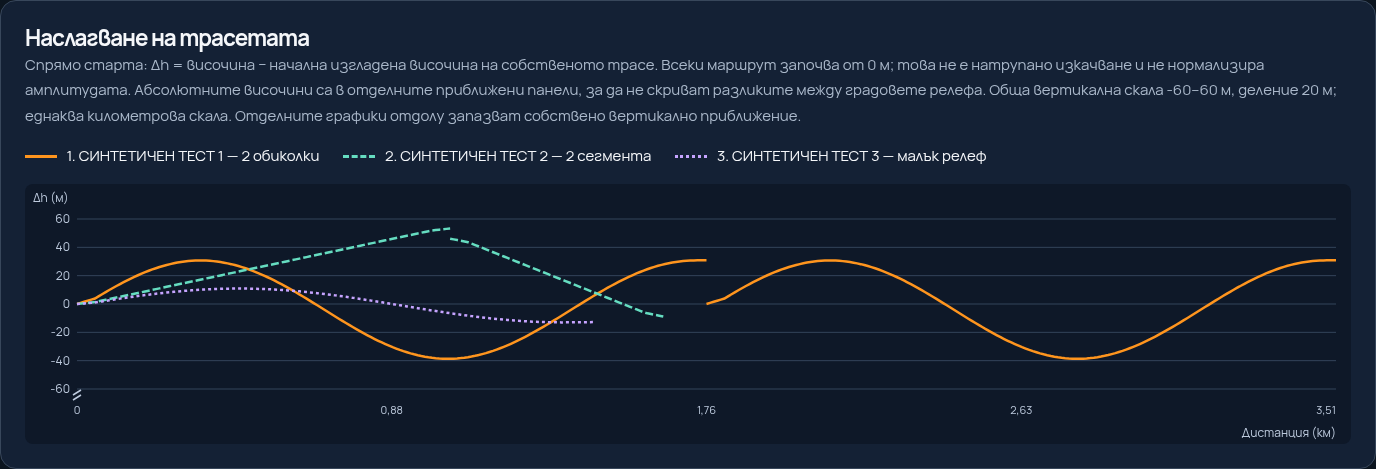
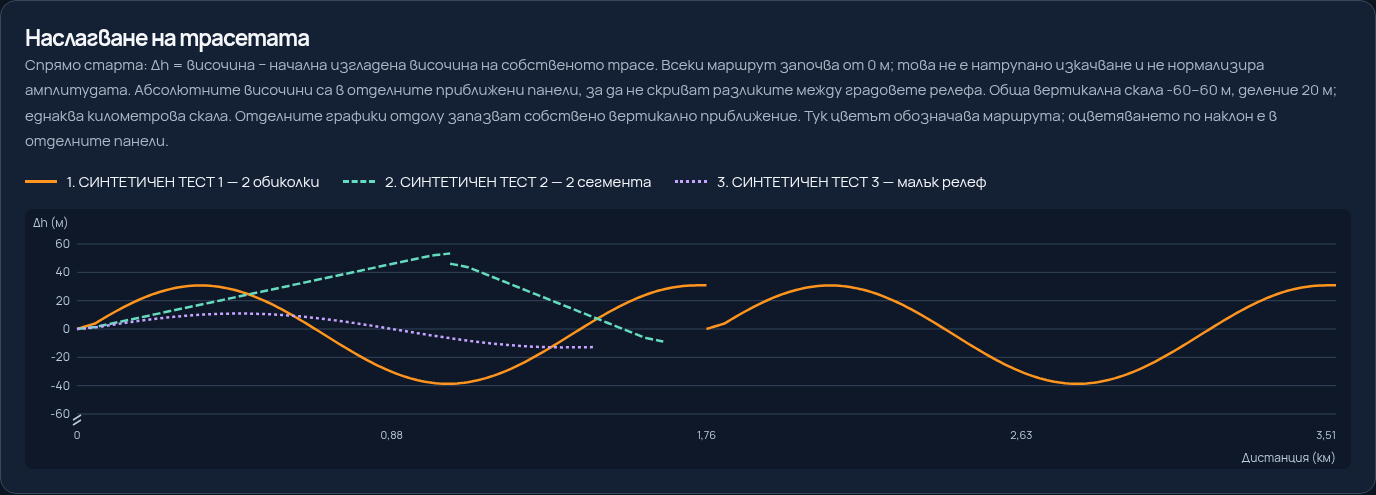
feat: finalize accessible terrain profiles and top climb analysis

diff --git a/src/scripts/route-analysis.ts b/src/scripts/route-analysis.ts
@@ -1,4 +1,5 @@
 import { analyzeRoute, profilePoint, planPace, parseTargetTime, formatDuration, formatPace, PROFILE_MESSAGES } from "../lib/route-analysis.mjs";
+import { TERRAIN, terrainRuns, topClimbs } from "../lib/profile-terrain.mjs";
 import { elevationAxis, comparisonAxis, displayElevation } from "../lib/profile-scales.mjs";
 import { chartAxes, svgNode, PROFILE_COLORS, PROFILE_DASHES } from "./profile-chart";
 import { initRouteMap } from "./route-map";
@@ -33,33 +34,65 @@ document.querySelectorAll<HTMLElement>("[data-route-analysis]").forEach((root) =
   }
   function draw(card: HTMLElement, profile: Profile, maxDistance: number, slot: string) {
     const svg = card.querySelector<SVGSVGElement>("[data-profile-chart]")!;
+    const drawGeneration = generation;
     svg.replaceChildren();
     if (!profile.available) return;
     const axis = elevationAxis(profile.minM!, profile.maxM!);
     const { x, y, width, left, plotWidth } = chartAxes(svg, axis, maxDistance);
     put(card, "[data-axis-notice]", `Абсолютна височина · вертикално приближение ${axis.min}–${axis.max} м · деление ${axis.step} м. ↕ Отделен вертикален мащаб за всяко трасе; стръмността на нарисуваната линия не е сравнима между панелите.`);
-    for (const points of profile.segments) svg.append(svgNode("polyline", { points: points.map((p) => `${x(p.x).toFixed(2)},${y(p.ele).toFixed(2)}`).join(" "), fill: "none", stroke: "#ff951e", "stroke-width": 2.5, "stroke-linejoin": "round", "vector-effect": "non-scaling-stroke" }));
-    for (const hill of profile.hills) {
-      const pts = profile.segments[hill.segment + (hill.lap - 1) * (profile.segments.length / profile.lapCount)].filter((p) => p.x >= hill.startM && p.x <= hill.endM);
-      // Each hill belongs to one segment; do not connect duplicate boundary positions.
-      if (pts.length) svg.append(svgNode("polyline", { points: pts.map((p) => `${x(p.x)},${y(p.ele)}`).join(" "), fill: "none", stroke: hill.type === "up" ? "#ffc06a" : "#65dcc0", "stroke-width": 4, "vector-effect": "non-scaling-stroke" }));
+    for (const points of profile.segments) for (const run of terrainRuns(points)) {
+      const style = TERRAIN[run.kind as keyof typeof TERRAIN];
+      const curve = svgNode("polyline", { points: run.points.map((p: { x: number; ele: number }) => `${x(p.x).toFixed(2)},${y(p.ele).toFixed(2)}`).join(" "), fill: "none", stroke: style.color, "stroke-width": 3.5, "stroke-linejoin": "round", "stroke-dasharray": style.dash, "vector-effect": "non-scaling-stroke", "data-terrain": run.kind });
+      curve.append(svgNode("title", {}, `${style.label}: ${km(run.points[0].x)}–${km(run.points.at(-1)!.x)} км`));
+      svg.append(curve);
     }
     const line = svgNode("line", { x1: left, x2: left, y1: 35, y2: 205, stroke: "#fff", "stroke-dasharray": "4 4" });
     const dot = svgNode("circle", { cx: left, cy: 205, r: 5, fill: "white" }); svg.append(line, dot);
     const slider = card.querySelector<HTMLInputElement>("[data-profile-position]")!;
     slider.max = String(profile.distanceM); slider.step = "any"; slider.value = "0";
-    function choose(distance: number) {
-      const p = profilePoint(profile, distance); if (!p) return;
+    function choose(distance: number, selectedPoint?: ReturnType<typeof profilePoint>) {
+      const p = selectedPoint ?? profilePoint(profile, distance); if (!p) return;
       line.setAttribute("x1", String(x(p.x))); line.setAttribute("x2", String(x(p.x)));
       dot.setAttribute("cx", String(x(p.x))); dot.setAttribute("cy", String(y(p.ele)));
-      put(card, "[data-profile-readout]", `${km(p.x)} км · ${metres(p.ele)} · наклон ${percent(p.grade)} · обиколка ${p.lap}. Точката е отбелязана и на картата, след като я отвориш.`);
+      svg.dataset.selectedDistance = String(p.x);
+      const direction = p.grade === undefined ? "Начало на сегмент" : Math.abs(p.grade) < .0035 ? "→ Слаб наклон" : p.grade > 0 ? "↑ Нагоре" : "↓ Надолу";
+      put(card, "[data-profile-readout]", `${direction} · ${km(p.x)} км · ${metres(p.ele)} · локален наклон след изглаждане ${percent(p.grade)} · обиколка ${p.lap}. Точката е отбелязана и на картата, след като я отвориш.`);
       mapFor(slot)?.selectPoint(p);
     }
     slider.oninput = () => choose(Number(slider.value));
-    svg.onpointerdown = (event) => {
-      const box = svg.getBoundingClientRect(); const distance = Math.max(0, Math.min(profile.distanceM, ((event.clientX - box.left) / box.width * width - left) / plotWidth * maxDistance));
+    let touchPointer: number | undefined, pendingX: number | undefined, scheduled = false;
+    function pointFromClient(clientX: number) {
+      const box = svg.getBoundingClientRect();
+      const distance = Math.max(0, Math.min(profile.distanceM, ((clientX - box.left) / box.width * width - left) / plotWidth * maxDistance));
       slider.value = String(distance); choose(distance);
+    }
+    svg.onpointerdown = (event) => {
+      if (event.pointerType !== "mouse") { touchPointer = event.pointerId; svg.setPointerCapture(event.pointerId); }
+      pointFromClient(event.clientX);
     };
+    svg.onpointermove = (event) => {
+      if (event.pointerType !== "mouse" && touchPointer !== event.pointerId) return;
+      pendingX = event.clientX;
+      if (scheduled) return; scheduled = true;
+      requestAnimationFrame(() => { scheduled = false; if (svg.isConnected && drawGeneration === generation && pendingX !== undefined) pointFromClient(pendingX); });
+    };
+    svg.onpointerup = svg.onpointercancel = () => { touchPointer = undefined; };
+    const annotations: { x: number; y: number }[] = [];
+    for (const climb of topClimbs(profile)) {
+      const segment = profile.segments[climb.segment + (climb.lap - 1) * (profile.segments.length / profile.lapCount)];
+      const peak = segment.find((p) => p.x >= climb.endM - 1e-6); if (!peak) continue;
+      const cx = Math.max(left + 12, Math.min(left + plotWidth - 12, x(peak.x)));
+      const positions = [-15, 20, -40, 45, -65, 70].map((offset) => Math.max(18, Math.min(193, y(peak.ele) + offset)));
+      const cy = positions.find((candidate) => annotations.every((p) => Math.abs(p.x - cx) >= 24 || Math.abs(p.y - candidate) >= 24)) ?? positions[0];
+      annotations.push({ x: cx, y: cy });
+      const label = `Изкачване №${climb.rank}, обиколка ${climb.lap}, ${km(climb.startM)}–${km(climb.endM)} км, +${metres(climb.gainM)}, средно ${percent(climb.averageGrade)}`;
+      const marker = svgNode("g", { "data-climb-marker": climb.rank, tabindex: 0, role: "button", "aria-label": label });
+      marker.append(svgNode("title", {}, label), svgNode("line", { x1: cx, x2: x(peak.x), y1: cy + 9, y2: y(peak.ele), stroke: "white" }), svgNode("circle", { cx, cy, r: 10, fill: "#fff", stroke: "#0e1828", "stroke-width": 1.5 }), svgNode("text", { x: cx, y: cy + 4, fill: "#0e1828", "text-anchor": "middle", "font-size": 12, "font-weight": "bold" }, String(climb.rank)));
+      const activate = () => { slider.value = String(climb.endM); choose(climb.endM, peak); };
+      marker.addEventListener("click", activate);
+      marker.addEventListener("keydown", (event) => { if (event.key === "Enter" || event.key === " ") { event.preventDefault(); activate(); } });
+      svg.append(marker);
+    }
     choose(0);
   }
   function render(card: HTMLElement, route: Summary, profile: Profile, maxDistance: number, slot: string) {
@@ -72,13 +105,18 @@ document.querySelectorAll<HTMLElement>("[data-route-analysis]").forEach((root) =
         noise = ` 25 м е чувствителен към GPS шум; за шосе препоръчваме 100 м. Изкачване при 25 м: ${metres(profile.ascentM)}; при 100 м: ${metres(baseline.ascentM)}. Разликата не доказва допълнителни реални хълмове.`;
       }
     }
-    put(card, "[data-profile-notice]", profile.available ? `Изглаждане ${smoothing.value} м. Оранжево: профил; светлооранжево: изкачване; зелено: спускане.${noise}` : PROFILE_MESSAGES[route.status === "ready" ? "unavailable" : route.status]);
+    put(card, "[data-profile-notice]", profile.available ? `Изглаждане ${smoothing.value} м. Устойчива посока: ↑ оранжево-червено — нагоре; ↓ зелено — надолу; → сиво — равно/слаб наклон. Линиите са също плътни, прекъснати и точкови.${noise}` : PROFILE_MESSAGES[route.status === "ready" ? "unavailable" : route.status]);
     const stats = card.querySelector("[data-profile-stats]")!; stats.replaceChildren();
     const entries = [["Обща дистанция", `${km(profile.distanceM)} км`], ["Обиколки", `${route.lapCount} × ${km(profile.baseDistanceM)} км`], ["Начална височина", metres(profile.startM)], ["Мин. / макс.", `${metres(profile.minM)} / ${metres(profile.maxM)}`], ["Изкачване", metres(profile.ascentM)], ["Спускане", metres(profile.descentM)]];
     for (const [label, value] of entries) { const div = document.createElement("div"), dt = document.createElement("dt"), dd = document.createElement("dd"); dt.textContent = label; dd.textContent = value; div.append(dt, dd); stats.append(div); }
     card.querySelector<HTMLElement>("[data-profile-details]")!.hidden = !profile.available;
     const body = card.querySelector("[data-profile-hills]")!; body.replaceChildren();
+    const topBody = card.querySelector("[data-top-climbs]")!; topBody.replaceChildren();
     if (!profile.available) return;
+    const climbs = topClimbs(profile);
+    put(card, "[data-top-climbs-summary]", `${climbs.length < 3 ? `Намерени са ${climbs.length} изкачвания над прага; не допълваме до три с измислени участъци.` : "Топ 3 по натрупано изкачване."} Долина–връх: поне 200 м, 10 м изкачване и 0,5% среден наклон; допускаме спад до 5 м за до 300 м. При равенство: среден наклон, дължина, по-ранен километър. Обиколките и сегментите остават отделни.`);
+    for (const c of climbs) row(topBody, [`№${c.rank} · обиколка ${c.lap}`, km(c.startM), km(c.endM), `${Math.round(c.lengthM)} м`, `+${metres(c.gainM)}`, percent(c.averageGrade)]).dataset.climbRank = String(c.rank);
+    if (!climbs.length) row(topBody, ["Няма изкачвания над прага", "—", "—", "—", "—", "—"]);
     const strongest = [...profile.hills].filter((h) => h.type === "up").sort((a, b) => b.gainM - a.gainM)[0];
     put(card, "[data-hills-summary]", strongest ? `Най-голямо изкачване по натрупване: ${km(strongest.startM)}–${km(strongest.endM)} км, +${metres(strongest.gainM)}, средно ${percent(strongest.averageGrade)}. Това не е обща оценка за трудност.` : "Няма изкачвания над избрания праг.");
     for (const h of profile.hills) row(body, [h.type === "up" ? "↑ Изкачване" : "↓ Спускане", km(h.startM), km(h.endM), `${Math.round(h.lengthM)} м`, `${h.type === "up" ? "+" : "−"}${metres(h.gainM)}`, percent(h.averageGrade), percent(h.maxGrade)]).dataset.hill = h.type;
@@ -102,7 +140,7 @@ document.querySelectorAll<HTMLElement>("[data-route-analysis]").forEach((root) =
     const { x, y } = chartAxes(svg, axis, maxDistance, relative);
     svg.dataset.mode = relative ? "relative" : "absolute";
     svg.setAttribute("aria-label", relative ? "Относителна промяна във височината спрямо старта в метри, по километри" : "Абсолютна надморска височина в метри, по километри");
-    put(panel, "[data-overlay-notice]", `Спрямо старта: Δh = височина − начална изгладена височина на собственото трасе. Всеки маршрут започва от 0 м; това не е натрупано изкачване и не нормализира амплитудата. Абсолютните височини са в отделните приближени панели, за да не скриват разликите между градовете релефа. Обща вертикална скала ${axis.min}–${axis.max} м, деление ${axis.step} м; еднаква километрова скала. Отделните графики отдолу запазват собствено вертикално приближение.`);
+    put(panel, "[data-overlay-notice]", `Спрямо старта: Δh = височина − начална изгладена височина на собственото трасе. Всеки маршрут започва от 0 м; това не е натрупано изкачване и не нормализира амплитудата. Абсолютните височини са в отделните приближени панели, за да не скриват разликите между градовете релефа. Обща вертикална скала ${axis.min}–${axis.max} м, деление ${axis.step} м; еднаква километрова скала. Отделните графики отдолу запазват собствено вертикално приближение. Тук цветът обозначава маршрута; оцветяването по наклон е в отделните панели.`);
     selected.forEach(({ route }, i) => {
       const profile = profiles[i]; if (!route || !profile?.available) return;
       const li = document.createElement("li"), swatch = document.createElement("span");

diff --git a/src/styles/analysis.css b/src/styles/analysis.css
@@ -2,3 +2,4 @@
 @media(max-width:600px){.analysis-controls label{flex-basis:100%}.pace-planner .analysis-controls button{width:100%}}
 
 .axis-notice{color:#d4ddea;border-left:3px solid #ff951e;padding-left:.7rem;font-size:.85rem;line-height:1.6}.profile-legend{display:flex;flex-wrap:wrap;list-style:none;padding:0;gap:.75rem 1.5rem}.profile-legend li{display:flex;align-items:center;gap:.6rem;min-width:0;overflow-wrap:anywhere}.profile-swatch{flex:0 0 32px;border-top:3px solid}.profile-card svg{min-height:0}
+.terrain-legend{display:flex;flex-wrap:wrap;gap:.6rem 1.2rem;list-style:none;padding:0;margin:1rem 0}.terrain-legend li{display:flex;align-items:center;gap:.5rem;font-size:.9rem}.terrain-swatch{width:30px;border-top:4px solid;flex:none}.terrain-down{border-top-style:dashed}.terrain-flat{border-top-style:dotted}.profile-hint{font-size:.85rem;color:#c1ccda;line-height:1.6}.profile-card [data-climb-marker]{cursor:pointer}.profile-card [data-climb-marker]:focus-visible circle{stroke:#ffb341;stroke-width:4}

diff --git a/docs/DIDO-v0.7-GPX.md b/docs/DIDO-v0.7-GPX.md
@@ -24,6 +24,24 @@
 - Над 1 км между съседни точки в един сегмент блокира профила. Липсващи или непотвърдени височини не се допълват; остава само равномерно темпо. Проверките за пълнота не доказват абсолютна височинна точност.
 - Надморската височина на два града и денивелацията сами по себе си не определят трудността. Не отчитаме настилка, вятър, температура или индивидуална подготовка.
 
+## Финални подобрения на профила
+
+Цветовете в отделните панели показват устойчива посока след избраното изглаждане: **↑ оранжево-червено** (`#ff693d`, плътна линия), **↓ наситено зелено** (`#22d881`, прекъсната), **→ неутрално сиво** (`#a4b1c2`, точкова). Легендата, стрелките, видовете линии и текстовото посочване осигуряват обозначение и без различаване на цветовете. Контрастът на линиите спрямо фона е проверен автоматично (поне 3:1).
+
+Класификацията се включва при ±0,75% локален изгладен наклон и се задържа до ±0,35%. Цветни участъци под 100 м стават неутрални; неутрална пауза под 100 м между две еднакви посоки се обединява. Това не променя точните височини, денивелацията, локалния наклон или стратегията. „Равно“ включва и слаб наклон. Наслагването запазва цветовете/лините за идентичността на маршрутите; посоките са оцветени в отделните панели.
+
+Движение на мишката без клик, докосване и хоризонтално плъзгане показват текущия километър, височина и локален наклон след изглаждане. Плъзгачът и клавиатурата остават налични. Маркерът на същата Leaflet карта следва точката; няма ново външно зареждане преди бутона за карта. Показването се ограничава до един update на кадър.
+
+**Трите водещи изкачвания** се определят отделно от запазената таблица за стръмни участъци ≥2%. Новото правило намира и продължителните полегати изкачвания: долина–връх в един сегмент, поне 200 м, поне 10 м натрупано изкачване и среден нетен наклон поне 0,5%. Междинен спад до 5 м и до 300 м от последния връх се допуска; по-дълъг/дълбок спад приключва изкачването. Плато над 300 м също разделя участъка.
+
+Натрупването е сборът на положителните промени **до върха**, без последващото спускане. Среден наклон = нетна разлика във височината / дължина. Подреждане по натрупване, при равенство — среден наклон, дължина и по-ранен километър. Не се присвоява физиологична „трудност“. Един и същ избран прозорец се използва за метриките, цветовете, водещите изкачвания и стратегията.
+
+Белите номера **1–3** върху графиката съвпадат с таблицата (начало/край, дължина, натрупване, среден наклон и обиколка). Маркерите са достъпни с Tab и Enter/Space и избират върха на съответния GPX сегмент, включително при прекъсване. Близките обозначения се разместват вертикално, за да не се закриват. При по-малко от три валидни изкачвания не се измислят допълнителни.
+
+Кандидатите се намират отделно във всеки GPX сегмент, после се повтарят отделно за всяка настроена обиколка. Няма общо изкачване през граница между сегменти/обиколки. Ако файлът вече съдържа цялото състезание, `lapCount: 1` означава едно използване на целия GPX; вътрешните състезателни обиколки не се отгатват автоматично.
+
+За официалните файлове Плевен и София е подготвен [следващ етап с проверка на условията, източници и CMS настройки](OFFICIAL-GPX-NEXT-STAGE.md). Файловете все още трябва да бъдат предоставени от собственика заедно с годината, официалния източник и условията/разрешението за препубликуване. Личният Zepp не се използва.
+
 ## Кайлъка — вече наличен реален профил
 
 След потвърждението на собственика за официалния произход е направена отделна [проверка на височините](KAYLAKA-ELEVATION-AUDIT.md), възпроизводима с `node scripts/audit-kaylaka.mjs`.
@@ -68,8 +86,8 @@
 
 `npm run verify`: Pages CMS схема, Astro/TypeScript, production build и автоматични тестове. Допълнителни тестове за хубави деления на осите, относително сравнение на три различни градски височини, чувствителност към шум при 25 м, пълнота/качество на Кайлъка, запазване на оригиналния файл, сегменти/обиколки, разрешения и точен сбор на стратегията.
 
-Opt-in browser тестовете на 320/390/768/1440 px проверяват реалния профил, 25 м предупреждение, две/три трасета, еднакви километрови деления и физическо подравняване, легенда/наслагване, общ относителен нулев старт, маркер, смяна на маршрут, непотвърдени височини, невалидна цел и липса на overflow. Запазени са съществуващите проверки за галерия, жестове, видео, записи, снимки и статични връзки.
+Opt-in browser тестовете на 320/390/768/1440 px проверяват контрастните посоки и легендата, движение на мишката, истинско докосване/плъзгане, маркери и таблица за водещите изкачвания, реалния профил, 25 м предупреждение, две/три трасета, еднакви километрови деления и физическо подравняване, легенда/наслагване, общ относителен нулев старт, маркер, смяна на маршрут, непотвърдени височини, невалидна цел и липса на overflow. Запазени са съществуващите проверки за галерия, жестове, видео, записи, снимки и статични връзки.
 
 За повторение: обслужи `dist/` на локален HTTP адрес и изпълни `npm run verify` с `DIDO_BROWSER_MODULE` (път до инсталиран Playwright), `DIDO_BROWSER_URL` и по желание `DIDO_CHROMIUM`. Без тези променливи двата браузърни теста са opt-in и се отчитат като skipped; production build няма нови изисквания. Реален запис през CMS не е извършван.
 
-Резултат след корекциите: `npm run verify` с включени двата браузърни теста — **56/56 успешни, 0 пропуснати**; Astro/TypeScript — **0 грешки, 0 предупреждения**; Pages CMS и production build — успешни. След уточняването, че CMS може да изключи профила без да чупи тестовете, е повторен и съответният тестов модул.
+Финален резултат: `npm run verify` с включени двата браузърни теста — **60/60 успешни, 0 пропуснати**; Astro/TypeScript — **0 грешки, 0 предупреждения**; Pages CMS и production build — успешни. Браузърният модул е повторен и за окончателните screenshots след проверките на фокуса и докосването. Снимките на Кайлъка се заснемат в отделен чист browser context, без остатъчно състояние от взаимодействията на теста.

diff --git a/docs/OFFICIAL-GPX-NEXT-STAGE.md b/docs/OFFICIAL-GPX-NEXT-STAGE.md
@@ -1,0 +1,39 @@
+# Следващ етап — официални Плевен и София
+
+Проверено на 2026-11-07. В проекта остава само реалният GPX за Кайлъка; `PlevenMarathon.gpx` и `WizzAirMarathon-Sofia-21_1-course.gpx` не са налични. Не са теглени заместители и не са създавани фиктивни публични маршрути. Личният `Zepp20260517090338.gpx` не е използван и не трябва да се качва в публичното репо.
+
+**За следващия етап собственикът трябва да приложи двата официални файла**, годината на всеки, точната страница/връзка за изтегляне и наличните лиценз/условия или потвърждение за публично показване и препубликуване. Самото изтегляне от официален сайт не удостоверява разрешение за повторно хостване.
+
+## Проверени официални източници и условия
+
+### Плевен
+
+- [Страница на маршрута](https://plevenmarathon.com/about/race-route/): има файл за изтегляне и описание на две обиколки за полумаратона. Описани са различни обръщала на първата и втората обиколка за показаната версия — при получаване трябва да се провери какво точно съдържа конкретният GPX и за коя година е.
+- [Правила за участие](https://plevenmarathon.com/about/rules/) и [политика за поверителност](https://plevenmarathon.com/about/data-protection/): условия за състезатели/данни и запазени права; в разгледаните страници не е намерен изричен лиценз за публично повторно хостване, преработване и разпространение на GPX.
+- [Контакти на организатора](https://plevenmarathon.com/): да се уточни разрешено ли е обработено трасе с източник, височинен анализ и изтегляне на GPX от DIDO, както и съхранение в публичния GitHub код. Не е изпращано съобщение от името на собственика.
+
+### София
+
+- [Официална страница за полумаратона](https://sofiamarathon.bg/bg/distances/half-marathon-21km/): има връзка за маршрут за изтегляне.
+- [Общи условия — „Интелектуална собственост и търговски марки“](https://sofiamarathon.bg/bg/obsthi-usloviya-za-polzvane/): уреждат правата върху съдържанието и необходимостта от предварително съгласие за употреби извън личните некомерсиални цели. Това не установява отделен отворен лиценз за GPX, публично хостване в друг сайт или GitHub. Приложимостта към конкретния файл трябва да се уточни с организатора/правоносителя, а не да се приема автоматично.
+- [Контакти](https://sofiamarathon.bg/bg/the-marathon/contacts/): необходим е същият обхват на уточнението — карта, обработени височини/графики, производен GPX за изтегляне, посочване на източник и публично репо. Не е изпращано съобщение.
+
+### Запазеният Кайлъка
+
+[Началната страница](https://kaylakamarathon.com/) предлага официални тракове; [„За събитието“](https://kaylakamarathon.com/за-събитието/) описва състезанието. В тези разгледани страници не е намерен изричен лиценз за GPX препубликуване. Произходът и изричните настройки на собственика са запазени, но това не се представя като доказан лиценз от трето лице. Наличният файл, публичните разрешения и провереният височинен профил не са променяни в този финален етап. Предишната [проверка на височините](KAYLAKA-ELEVATION-AUDIT.md) оценява данните, не лицензира съдържанието.
+
+## Подготвено включване — без промяна на архитектурата
+
+| Настройка | Плевен | София |
+| --- | --- | --- |
+| Отделен запис по година | Например „Плевен — полумаратон ГОДИНА“ | Например „София — полумаратон ГОДИНА“ |
+| Брой обиколки | **2**, само ако предоставеният GPX е една обиколка | **1** за пълния полумаратон |
+| Ако GPX вече е пълната дистанция | **1**, без ново удвояване | **1** |
+| Първоначален статус | Чернова | Чернова |
+| Одобрение/карта/изтегляне/анализ | Изключени до проверка на файла и правата | Изключени до проверка на файла и правата |
+| Надеждни височини | Само след отделна проверка | Само след отделна проверка |
+| Сравнение и калкулатор | След публикуване и разрешена карта | След публикуване и разрешена карта |
+
+Съществуващият Pages CMS вече има необходимите полета. След получаване: потвърждаване на година и обхват, лиценз/разрешение, проверка за лични метаданни и координати, изрязване при нужда, измерване на дистанцията, пълнота и качество на височините. Анализаторът използва измерената дистанция × обиколки, не обявената официална дължина.
+
+Повтарянето на една обиколка не може да възпроизведе различни обръщала/геометрия на втората. При такава версия е нужен пълен официален GPX на съответната година; до тогава повторението е приближение и не бива да се представя като точното трасе. След проверка двата маршрута ще се появят в сравнението с Кайлъка без нов код; не се създават дублирани състезания или публикации.
